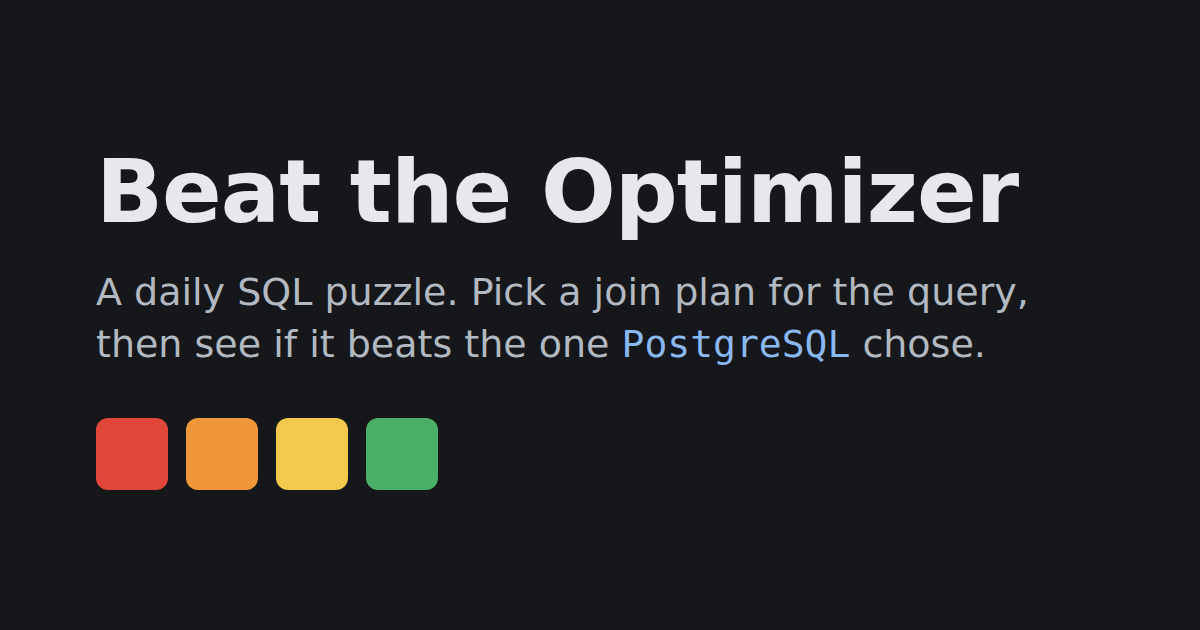
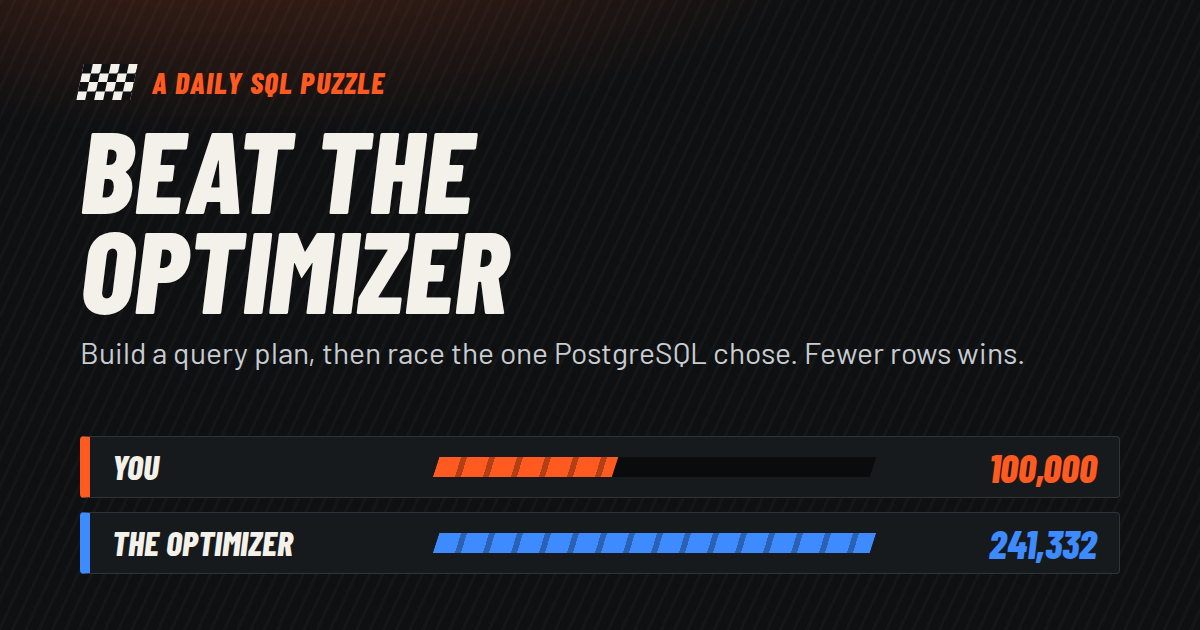
docs(ui): show the Race Night look in the README and link previews (#102)
The README screenshots and the link preview still showed the first
build: a light page, a long form and PostgreSQL's name where the game now
says the Optimizer.

- docs/images/level.png: the first question of Belt and braces on a
  phone, with each table's rows and the Optimizer's guess of 10 rows.
- docs/images/result.png: a won race on Last night's migration, with the
  yellow flag, the verdict and the timing tower.
- public/og-image.png: the link preview in the Race Night look, the two
  race lanes under the name, drawn in e2e/og-image.html.
- npm run screenshots takes all three the same way each time, from
  e2e/screenshots.shots.ts with playwright.screenshots.config.ts, like
  the smoke test's config. The e2e config never runs it.
- The README's alt texts and the og:image:alt text describe the new
  images.

Closes #100

diff --git a/e2e/og-image.html b/e2e/og-image.html
@@ -1,0 +1,152 @@
+<!doctype html>
+<!-- The link preview, public/og-image.png: rendered at 1200 × 630 by
+     e2e/screenshots.shots.ts (npm run screenshots). -->
+<html lang="en">
+  <head>
+    <meta charset="utf-8" />
+    <title>Beat the Optimizer: link preview</title>
+    <style>
+      @font-face {
+        font-family: Barlow;
+        src: url('../public/fonts/barlow-400.woff2') format('woff2');
+        font-weight: 400;
+      }
+
+      @font-face {
+        font-family: 'Barlow Condensed';
+        src: url('../public/fonts/barlow-condensed-600.woff2') format('woff2');
+        font-weight: 600;
+      }
+
+      @font-face {
+        font-family: 'Barlow Condensed';
+        src: url('../public/fonts/barlow-condensed-800-italic.woff2') format('woff2');
+        font-weight: 800;
+        font-style: italic;
+      }
+
+      * {
+        box-sizing: border-box;
+      }
+
+      body {
+        margin: 0;
+        width: 1200px;
+        height: 630px;
+        overflow: hidden;
+        padding: 64px 80px;
+        color: #f3f1ea;
+        font:
+          400 34px/1.35 Barlow,
+          sans-serif;
+        background:
+          radial-gradient(90% 70% at 20% -20%, rgb(255 90 31 / 28%), transparent 60%),
+          repeating-linear-gradient(115deg, rgb(255 255 255 / 2.5%) 0 3px, transparent 3px 12px),
+          #0e1012;
+      }
+
+      .brand {
+        display: flex;
+        align-items: center;
+        gap: 18px;
+        font:
+          italic 800 30px/1 'Barlow Condensed',
+          sans-serif;
+        letter-spacing: 0.04em;
+        text-transform: uppercase;
+        color: #ff5a1f;
+      }
+
+      .brand i {
+        width: 54px;
+        height: 36px;
+        background: conic-gradient(#f3f1ea 0 25%, #0e1012 0 50%, #f3f1ea 0 75%, #0e1012 0) 0 0 /
+          18px 18px;
+        transform: skewX(-12deg);
+      }
+
+      h1 {
+        margin: 18px 0 14px;
+        font:
+          italic 800 116px/0.86 'Barlow Condensed',
+          sans-serif;
+        text-transform: uppercase;
+      }
+
+      p {
+        margin: 0;
+        font-size: 30px;
+        color: #c9ccd1;
+      }
+
+      .lanes {
+        position: absolute;
+        right: 80px;
+        bottom: 56px;
+        left: 80px;
+        display: grid;
+        gap: 14px;
+      }
+
+      .lane {
+        display: grid;
+        grid-template-columns: 300px 1fr 200px;
+        align-items: center;
+        gap: 24px;
+        padding: 10px 22px;
+        background: #171a1d;
+        border: 1px solid #2f343a;
+        border-left: 10px solid var(--c);
+        border-radius: 4px;
+      }
+
+      .who {
+        font:
+          italic 800 34px/1 'Barlow Condensed',
+          sans-serif;
+        text-transform: uppercase;
+      }
+
+      .strip {
+        height: 20px;
+        background: #0a0b0d;
+        transform: skewX(-18deg);
+        overflow: hidden;
+      }
+
+      .strip span {
+        display: block;
+        height: 100%;
+        width: var(--w);
+        background: repeating-linear-gradient(
+          90deg,
+          var(--c) 0 22px,
+          color-mix(in srgb, var(--c) 70%, #000) 22px 28px
+        );
+      }
+
+      .count {
+        text-align: right;
+        font:
+          italic 800 40px/1 'Barlow Condensed',
+          sans-serif;
+        color: var(--c);
+      }
+    </style>
+  </head>
+  <body>
+    <div class="brand"><i></i>A daily SQL puzzle</div>
+    <h1>Beat the<br />Optimizer</h1>
+    <p>Build a query plan, then race the one PostgreSQL chose. Fewer rows wins.</p>
+    <div class="lanes" aria-hidden="true">
+      <div class="lane" style="--c: #ff5a1f; --w: 41%">
+        <span class="who">You</span><span class="strip"><span></span></span
+        ><span class="count">100,000</span>
+      </div>
+      <div class="lane" style="--c: #3d8bff; --w: 100%">
+        <span class="who">The Optimizer</span><span class="strip"><span></span></span
+        ><span class="count">241,332</span>
+      </div>
+    </div>
+  </body>
+</html>

diff --git a/e2e/screenshots.shots.ts b/e2e/screenshots.shots.ts
@@ -1,0 +1,51 @@
+// The README screenshots and the link preview, taken the same way each time
+// (npm run screenshots, playwright.screenshots.config.ts).
+import { test } from '@playwright/test';
+import { pathToFileURL } from 'node:url';
+import { KEY } from '../src/progress.ts';
+
+test.beforeEach(async ({ page }) => {
+  // A returning player, on a fixed day, with no animation to wait for.
+  await page.addInitScript((key) => {
+    localStorage.setItem(
+      key,
+      JSON.stringify({ tutorialSeen: true, puzzles: {}, streak: { last: 0, days: 0 } }),
+    );
+  }, KEY);
+  await page.emulateMedia({ reducedMotion: 'reduce' });
+});
+
+test('the first question, with the Optimizer’s guess', async ({ page }) => {
+  // Puzzle #9, Belt and braces: the Optimizer guesses 10 rows; there are 10,000.
+  await page.clock.setFixedTime(new Date('2026-12-01T12:00:00'));
+  await page.goto('/');
+  // Both answers, the guess included, clear of the bar at the bottom.
+  await page.evaluate(() => {
+    const answers = document.querySelector('.answers')?.getBoundingClientRect();
+    window.scrollBy(0, (answers?.bottom ?? 0) - window.innerHeight + 120);
+  });
+  await page.screenshot({ path: 'docs/images/level.png' });
+});
+
+test('the result of a race, with a yellow flag', async ({ page }) => {
+  // Puzzle #10, Last night's migration: reading every row is the perfect plan.
+  await page.clock.setFixedTime(new Date('2026-12-02T12:00:00'));
+  await page.goto('/');
+  await page.getByRole('button', { name: /Seq scan/ }).click();
+  await page.getByRole('button', { name: /^Race/ }).click();
+  await page.locator('.result .costs').waitFor();
+  // The bar at the bottom would cover the result in a screenshot of it.
+  await page.addStyleTag({ content: '.run-controls { display: none !important; }' });
+  await page.locator('.run').screenshot({ path: 'docs/images/result.png' });
+});
+
+test('the link preview', async ({ browser }) => {
+  const page = await browser.newPage({
+    viewport: { width: 1200, height: 630 },
+    deviceScaleFactor: 1,
+  });
+  await page.goto(pathToFileURL('e2e/og-image.html').href);
+  await page.evaluate(() => document.fonts.ready);
+  await page.screenshot({ path: 'public/og-image.png' });
+  await page.close();
+});

diff --git a/playwright.screenshots.config.ts b/playwright.screenshots.config.ts
@@ -1,0 +1,29 @@
+import { defineConfig, devices } from '@playwright/test';
+
+// The README screenshots and the link preview (npm run screenshots): only
+// e2e/*.shots.ts files run here, and the e2e config never runs them. They
+// write docs/images/level.png, docs/images/result.png and public/og-image.png.
+const port = 4174;
+
+export default defineConfig({
+  testDir: 'e2e',
+  testMatch: '*.shots.ts',
+  forbidOnly: true,
+  retries: 0,
+  reporter: [['list']],
+  use: { baseURL: `http://localhost:${String(port)}` },
+  // A phone, at twice the pixels, so the README shows it sharp at 820 px wide.
+  projects: [
+    {
+      name: 'phone',
+      use: { ...devices['Pixel 7'], viewport: { width: 410, height: 820 }, deviceScaleFactor: 2 },
+    },
+  ],
+  webServer: {
+    // No analytics settings: nothing is counted while the screenshots are taken.
+    command: `npx vite build && npx vite preview --port ${String(port)} --strictPort`,
+    port,
+    reuseExistingServer: false,
+    timeout: 60_000,
+  },
+});

diff --git a/index.html b/index.html
@@ -42,7 +42,7 @@
     <meta property="og:image:height" content="630" />
     <meta
       property="og:image:alt"
-      content="Beat the Optimizer: a daily SQL join-plan puzzle against PostgreSQL."
+      content="Beat the Optimizer, a daily SQL puzzle: your query plan races the one PostgreSQL chose, and fewer rows wins."
     />
     <meta name="twitter:card" content="summary_large_image" />
   </head>

diff --git a/README.md b/README.md
@@ -11,7 +11,7 @@ done. Then your plan runs against the plan PostgreSQL chose for the same query.
 > **Status:** early development. The first public version is `v0.1.0`, with 10
 > levels, a daily rotation and a share card.
 
-![A level: the story, the query, and the table with its row count, columns and indexes](docs/images/level.png)
+![A puzzle on a phone: the end of the story, the folded query, tables and joins, then the first question, which table to start with, with each table's rows and the Optimizer's guess for orders: 10 rows](docs/images/level.png)
 
 ## Play
 
@@ -30,7 +30,7 @@ done. Then your plan runs against the plan PostgreSQL chose for the same query.
   `/privacy` page says exactly what it stores and sends, and `/about` explains
   the scoring and its limits.
 
-![The result of a run: the cost of each operator, then your plan, PostgreSQL's plan and the best possible plan](docs/images/result.png)
+![The result of a race on a phone: your plan finished first with 100,000 points against the Optimizer's 241,332, a yellow flag saying the Optimizer expected 149 rows from orders and got 60,333, the verdict and the timing tower](docs/images/result.png)
 
 ## How it works
 

diff --git a/AGENTS.md b/AGENTS.md
@@ -26,6 +26,7 @@ npm run pr-size     # CI only: size label for a pull request
 npm run pr-hygiene  # CI only: pull request rules
 npm run build       # production build into dist/; settings below
 npm run smoke       # CI only: the smoke test against the live site at SMOKE_URL
+npm run screenshots # the README screenshots and the link preview (e2e/*.shots.ts)
 ```
 
 ## Build settings
